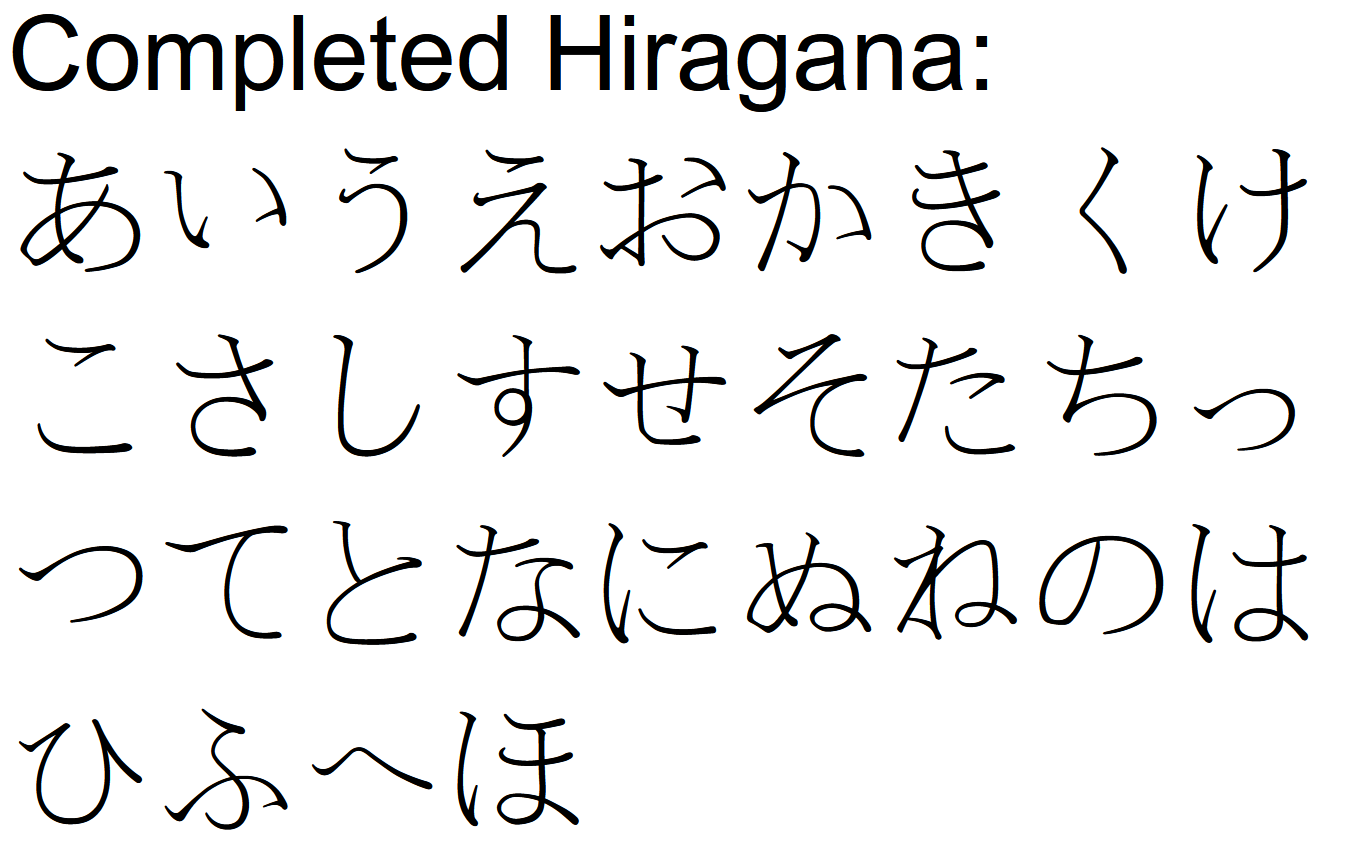
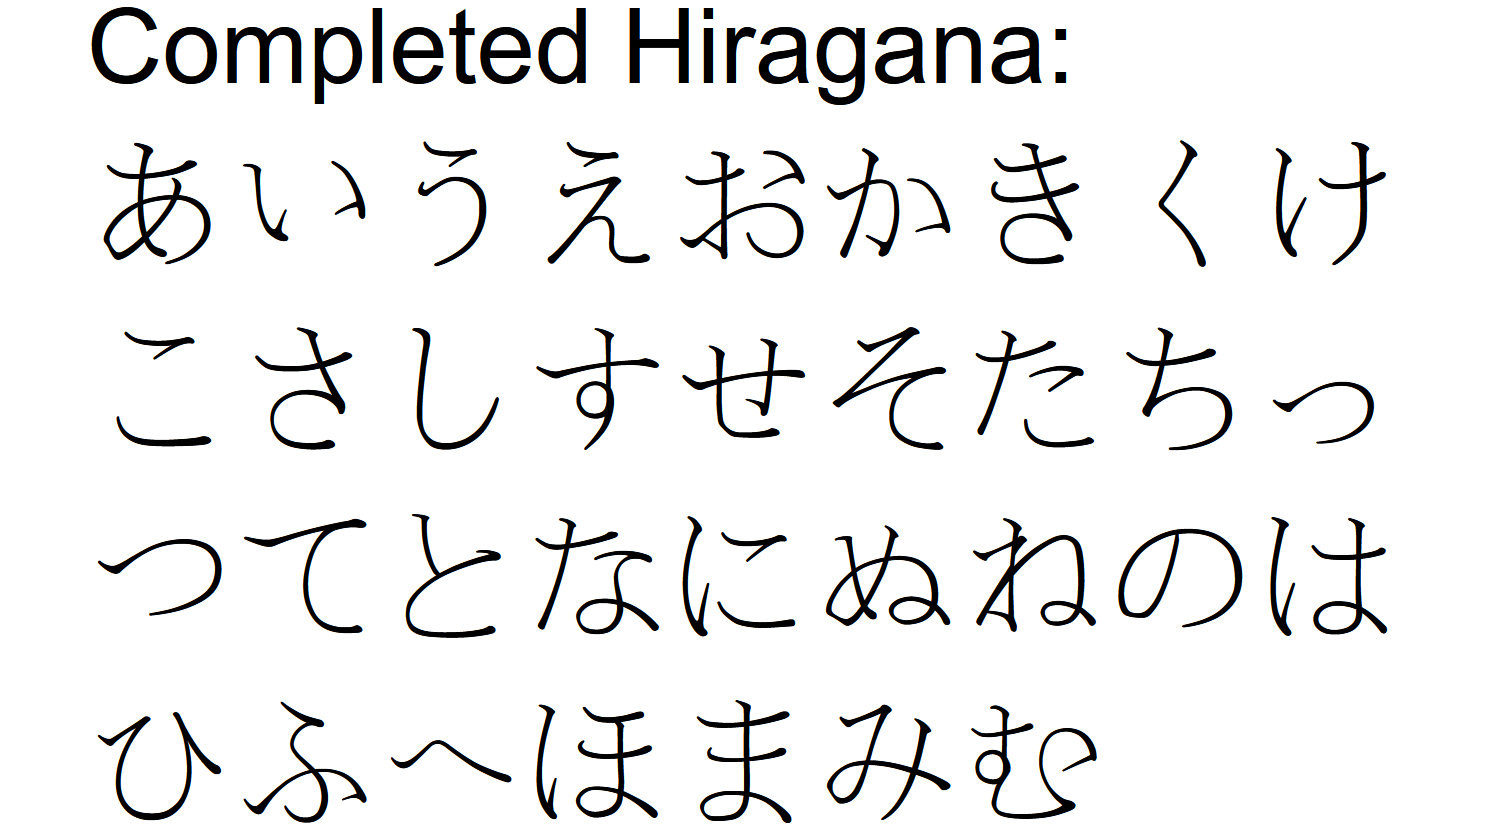
Updated README.md and Progress.PNG
Additionally added character 遊 as a test. Note that the rest of the kanji will most likely not be included in this typeface. Also made a small change to か.

diff --git a/README.md b/README.md
@@ -1,15 +1,16 @@
 # Soro_japanese
 Hiragana and Katakana font modeled after my (current) handwriting.
 
-Completed glyphs:
-あいうえおかきくけこさしすせそたちっつてとなにぬねのはひふへほ
+Completed glyphs by font weight:
+LIGHT:
+あいうえおかきくけこさしすせそたちっつてとなにぬねのはひふへほまみむ
 
 Font exports include two .ttf files, one for both Windows and Mac. Both .ttf's will be on the same version of the typeface.
 
-HKSORO-100-00.birdfont is the main XML. Open in Birdfont to edit.
+.birdfont is an XML. It should be opened in Birdfont to edit.
 
 Installation
 
-The .birdfont file itself cannot be installed. To install this version of the typeface, open whichever .ttf file corresponds to your operating system. Click the install button in the font viewer. If another version of the font is already installed, you will be prompted to overwrite it.
+The .birdfont file itself cannot be installed. To install this version of the typeface, open whichever .ttf file corresponds with your operating system. Click the install button in the font viewer. If another version of the font is already installed, you will be prompted to overwrite it.
 
 debug.log is automatically generated by Birdfont and may be ignored.
